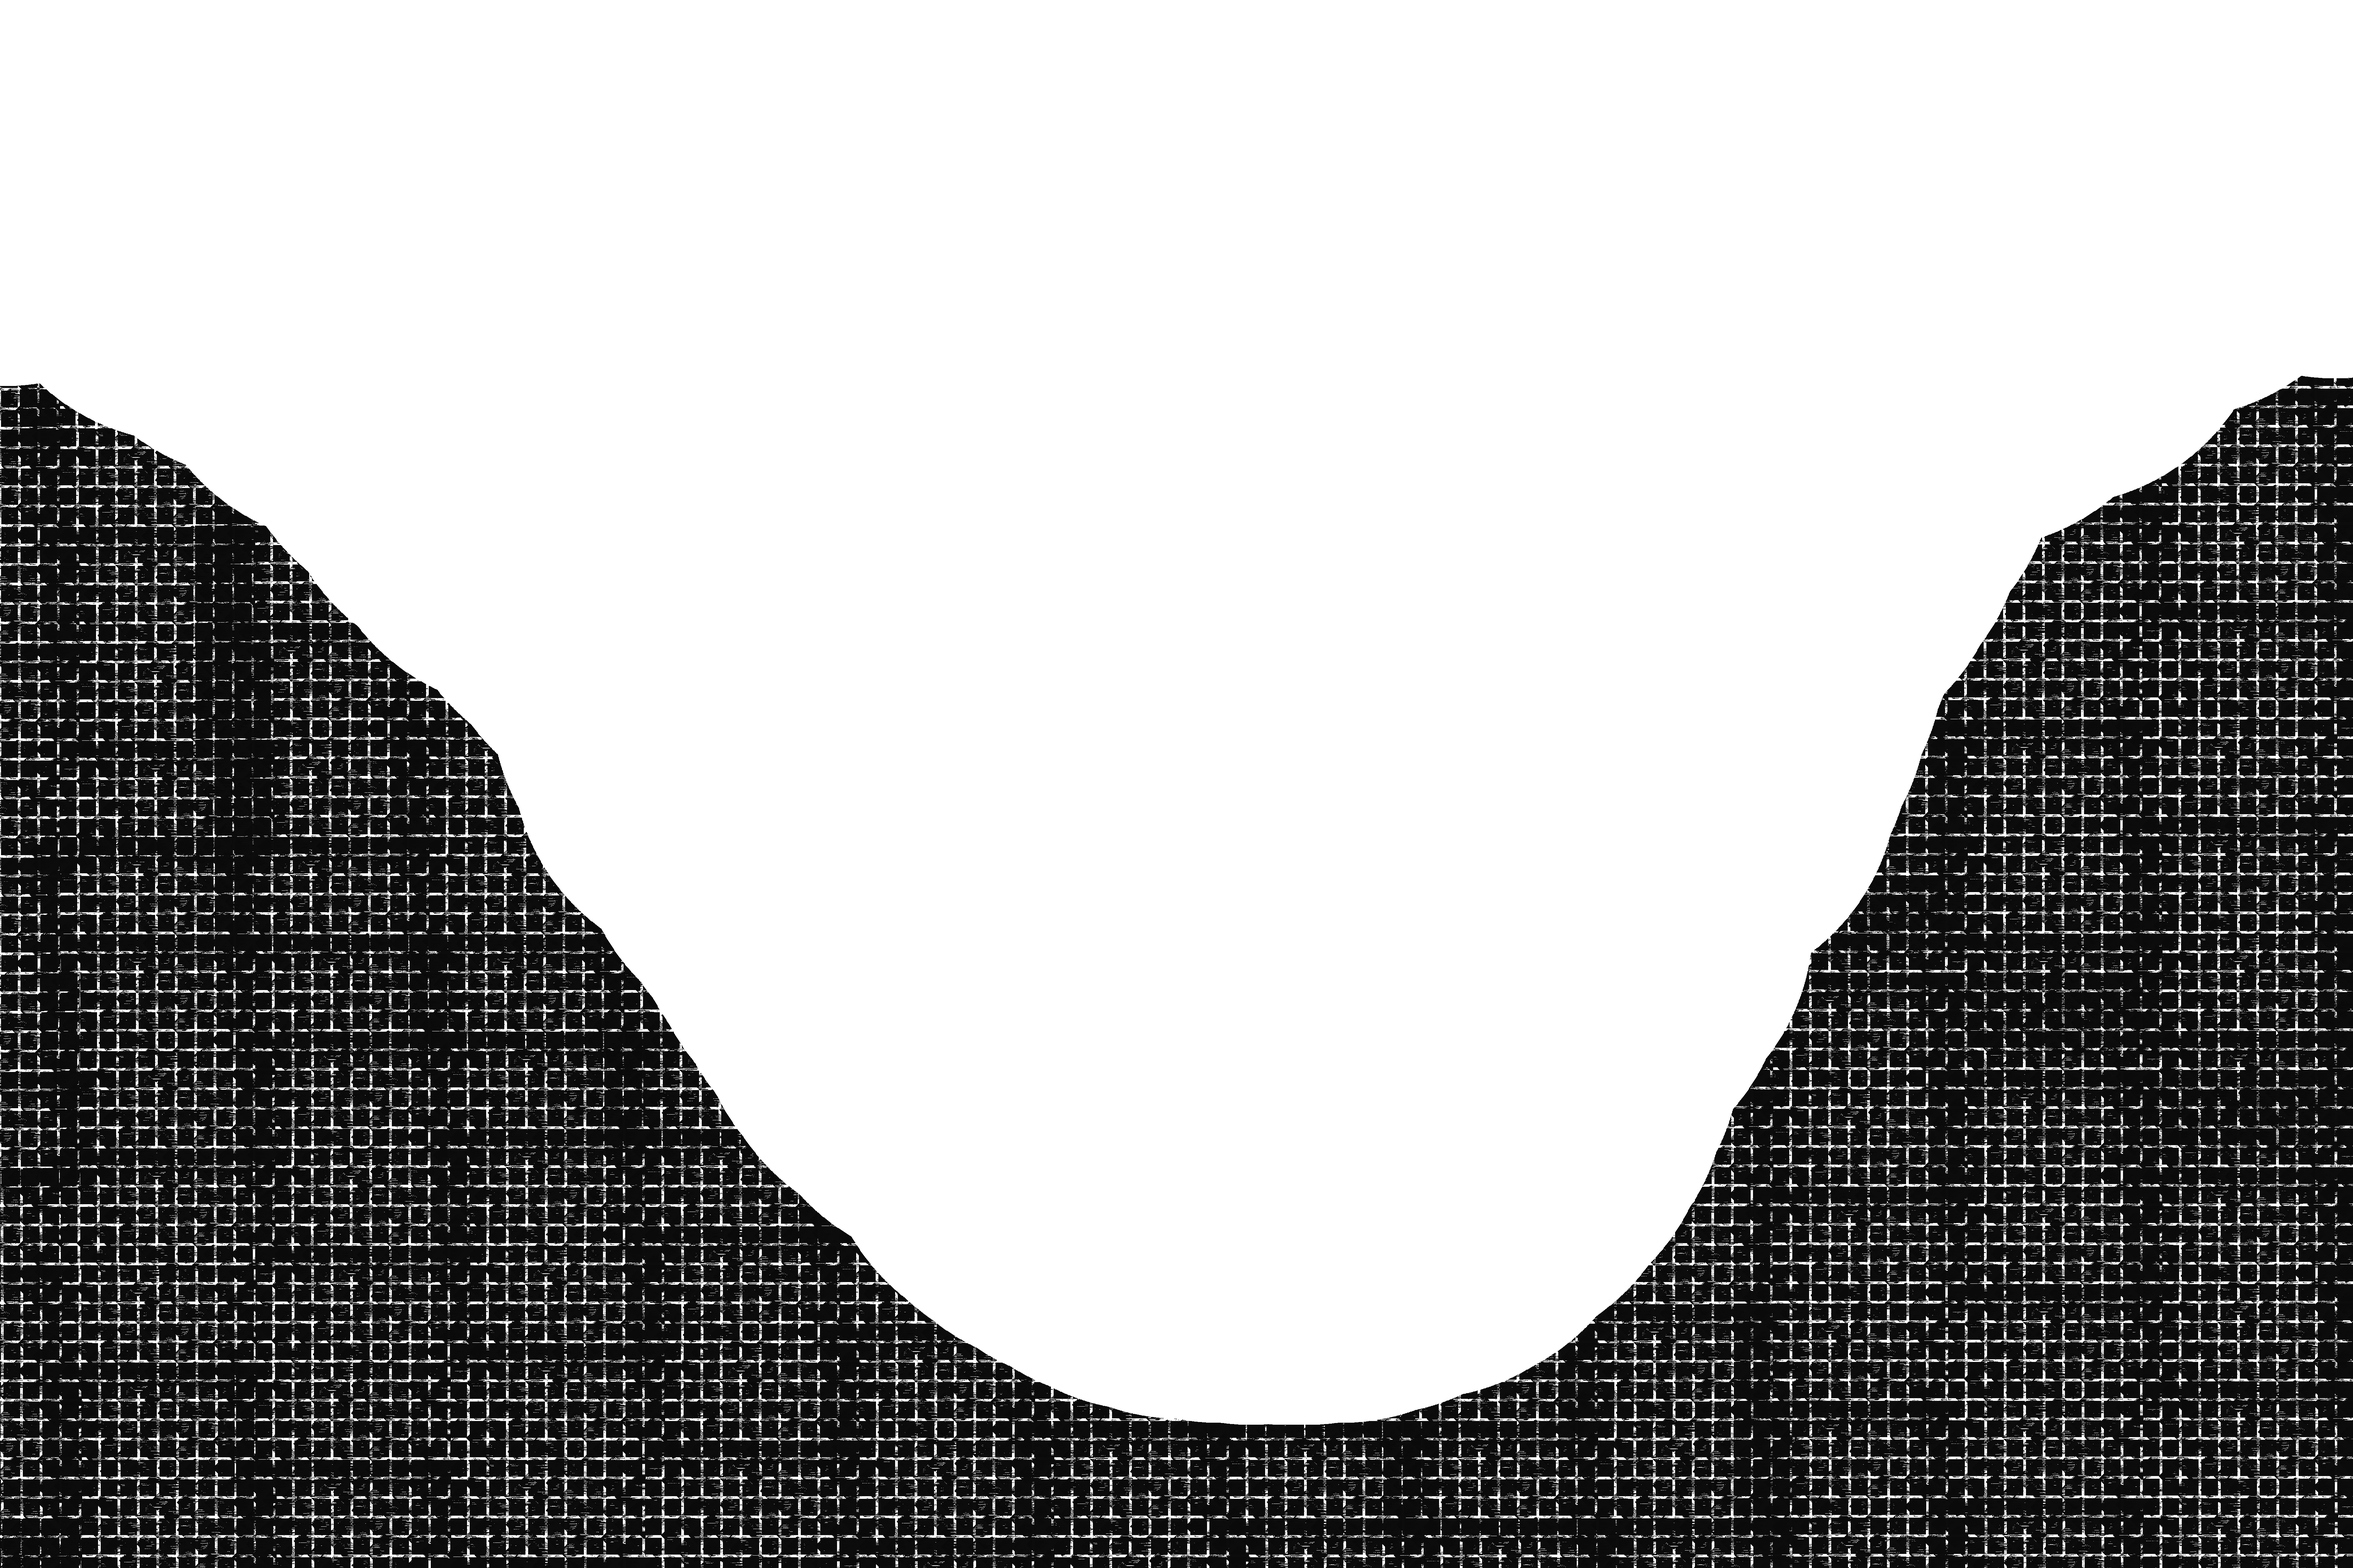
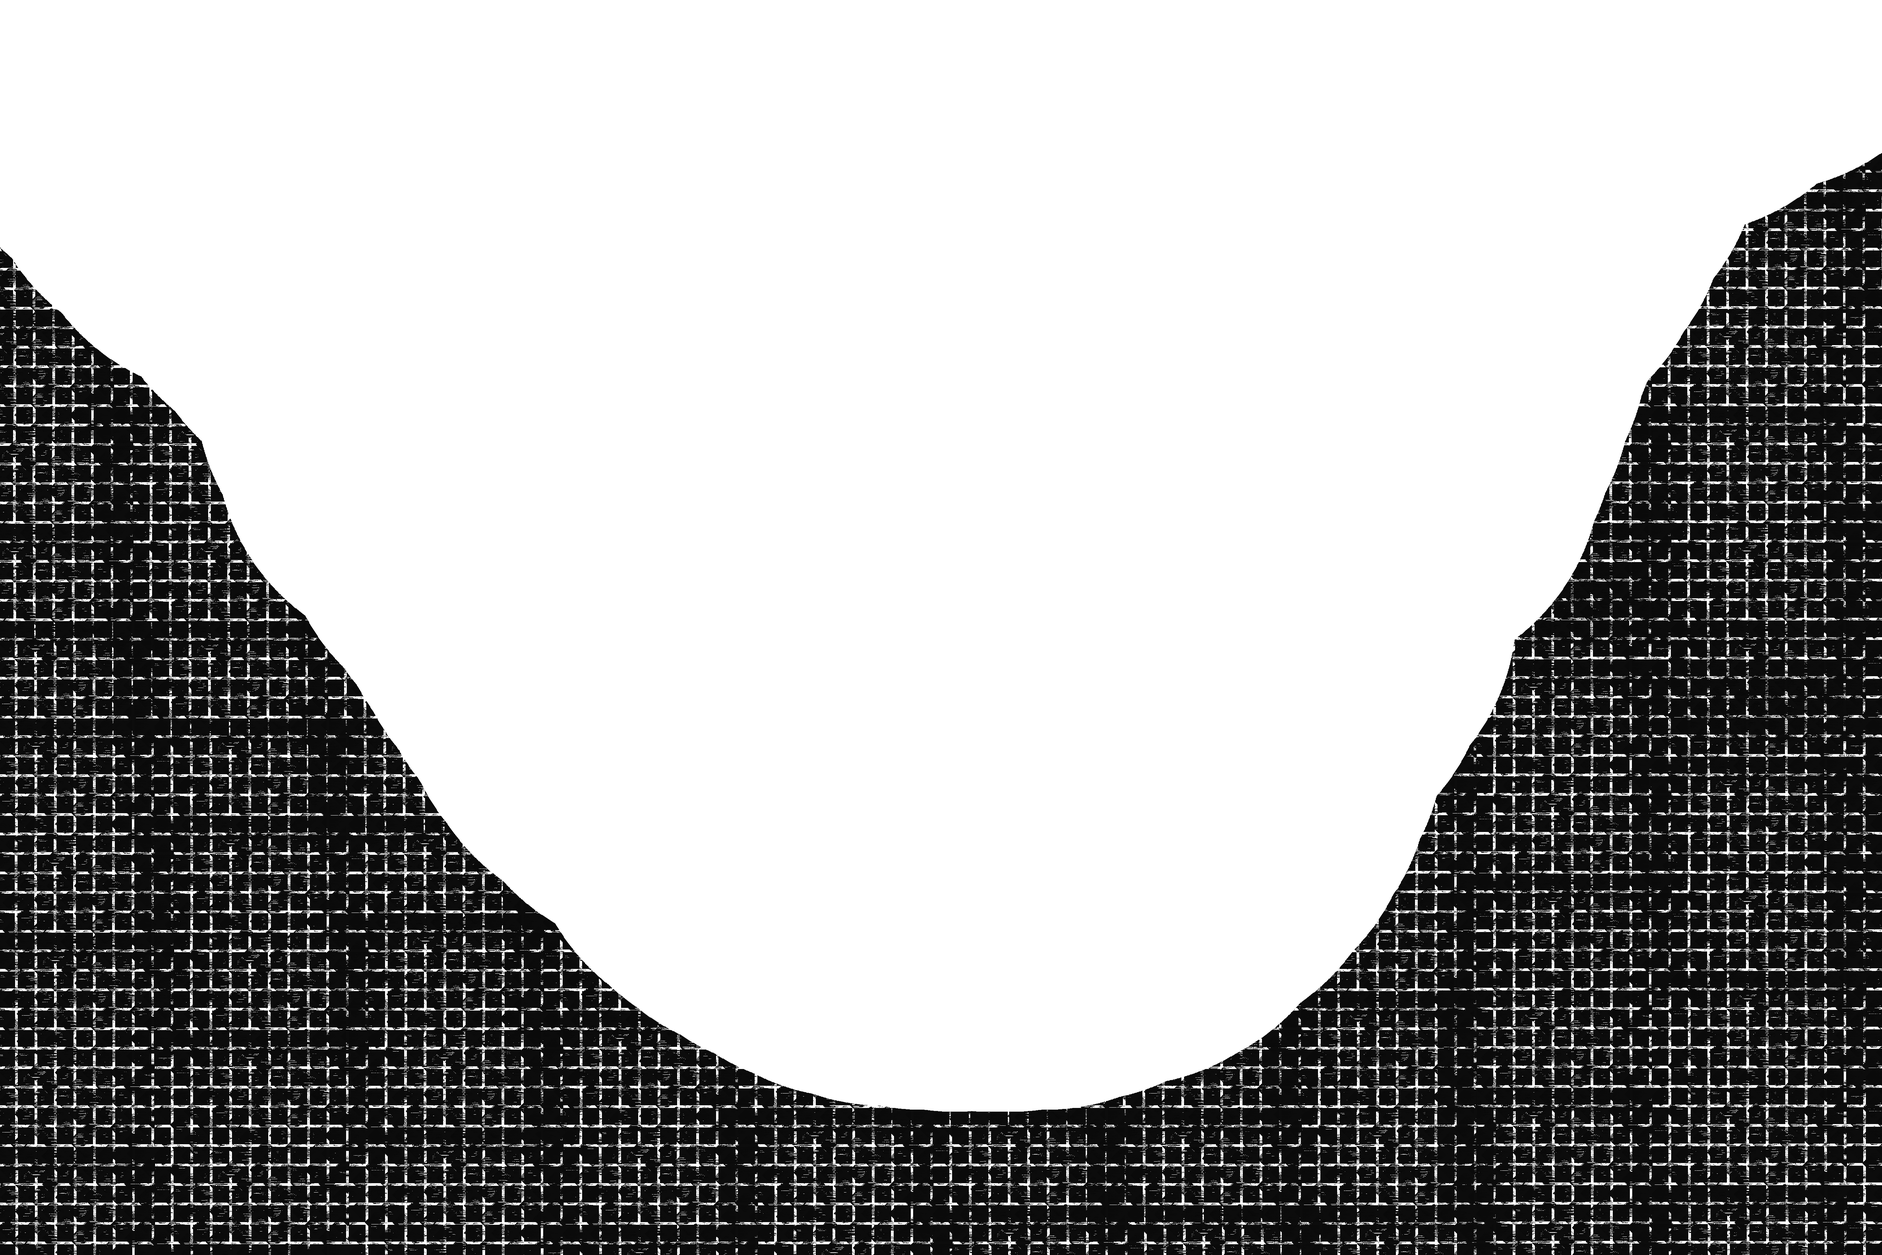
header images update

Changed region(s): [[0.0, 0.1241, 1.0, 1.0]]

diff --git a/components/Footer.js b/components/Footer.js
@@ -4,7 +4,7 @@ import Link from 'next/link';
 const Footer = () => {
     return (
         <div id="footer" className="sm:text-2xl text-base">
-            <Link href="mailto: contact@ochoshot.com"  className="text-base">contact@ochoshot.com</Link><br/>
+            <Link href="mailto: contact@ochoshot.com"  className="text-base cP">contact@ochoshot.com</Link><br/>
             © 2023 romeo
             
         </div>
